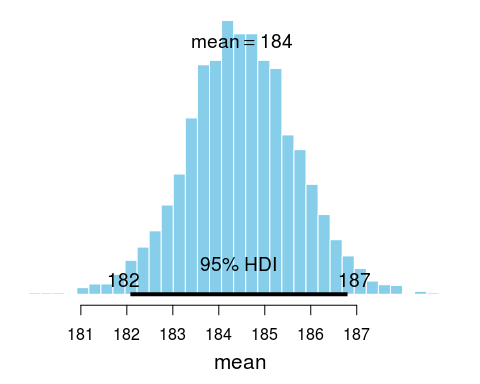
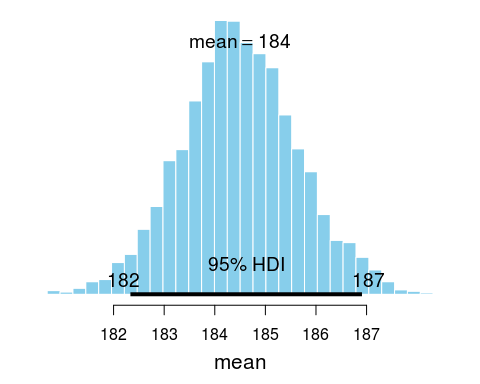
Spellchecked the README

diff --git a/README.md b/README.md
@@ -1,7 +1,7 @@
 `bayesboot`: Easy Bayesian Bootstrap in R
 =========================================
 
-The `bayesboot` package implements a function `bayesboot` that performs the Bayesian bootstrap as introduced by Rubin (1981). The implementation can both handle statistics that works on a weighted version of the data or that works on a resampled data set.
+The `bayesboot` package implements a function `bayesboot` that performs the Bayesian bootstrap introduced by Rubin (1981). The implementation can both handle summary statistics that works on a weighted version of the data or that works on a resampled data set.
 
 `bayesboot` is not yet on CRAN but can be installed using [the devtools package](https://github.com/hadley/devtools):
 
@@ -33,12 +33,12 @@ summary(b1)
 ## Number of posterior draws: 4000 
 ## 
 ## Summary of the posterior (with 95% Highest Density Intervals):
-##  statistic  mean   sd hdi.low hdi.high
-##         V1 184.5 1.19   182.1    186.8
+##  statistic  mean    sd hdi.low hdi.high
+##         V1 184.5 1.154   182.3    186.9
 ## 
 ## Quantiles:
 ##  statistic q2.5%  q25% median  q75% q97.5%
-##         V1 182.1 183.7  184.5 185.3  186.9
+##         V1 182.3 183.7  184.5 185.2  186.9
 ## 
 ## Call:
 ##  bayesboot(data = heights, statistic = mean)
@@ -47,7 +47,7 @@ plot(b1)
 
 ![](README-unnamed-chunk-4-1.png)
 
-While it is possible to use a summary statistics that works on a resample of the original data, it is more efficient if it's possible to use a summary statistics that works on a *reweighting* of the original dataset. Instead of using `mean` above it would be better to use `weighted.mean` like this:
+While it is possible to use a summary statistic that works on a resample of the original data, it is more efficient if it's possible to use a summary statistic that works on a *reweighting* of the original dataset. Instead of using `mean` above it would be better to use `weighted.mean` like this:
 
 ``` r
 b2 <- bayesboot(heights, weighted.mean, use.weights = TRUE)
